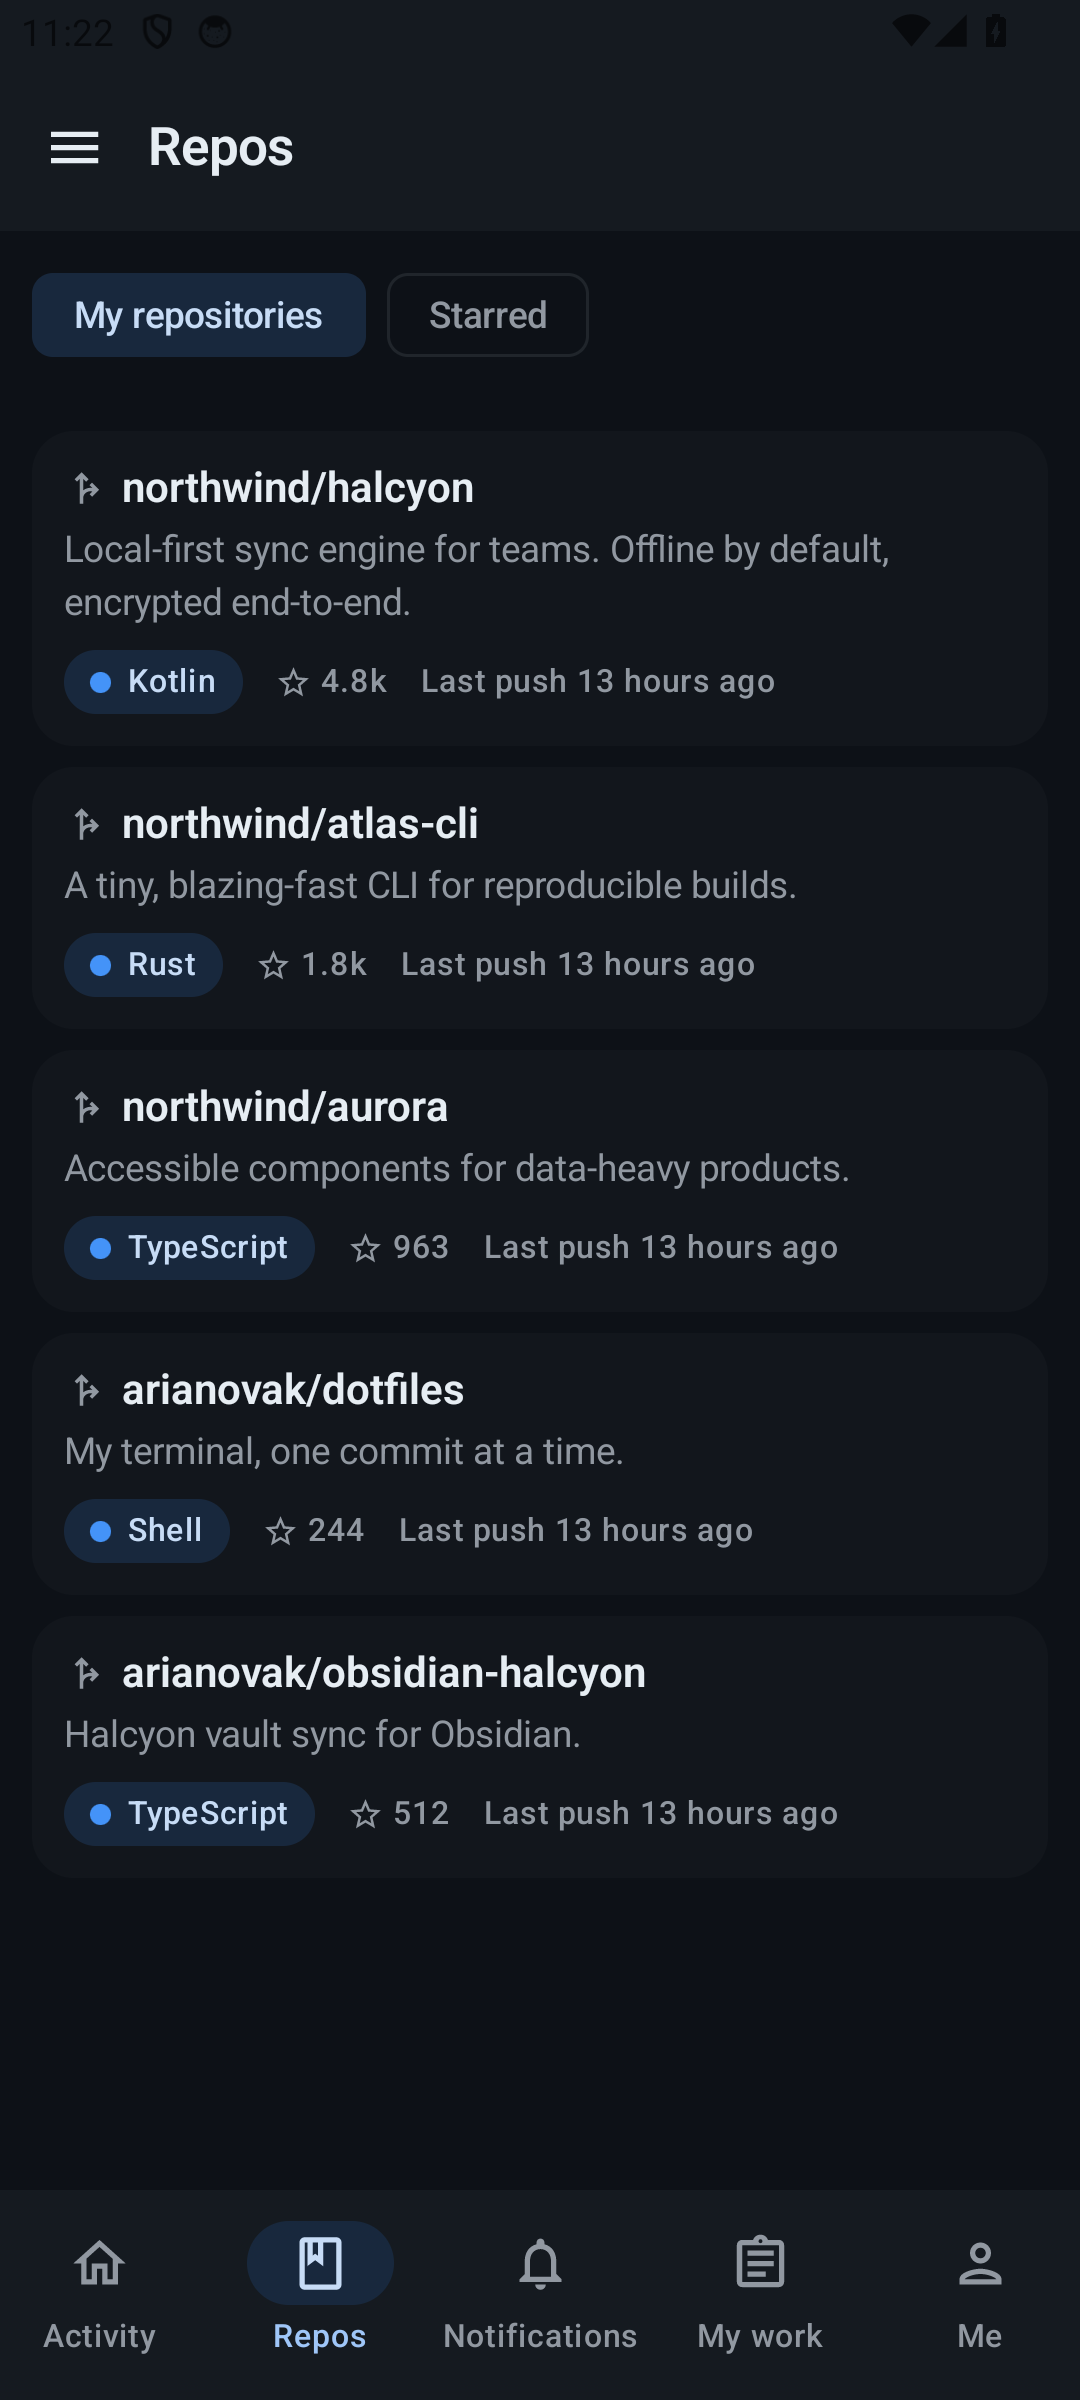
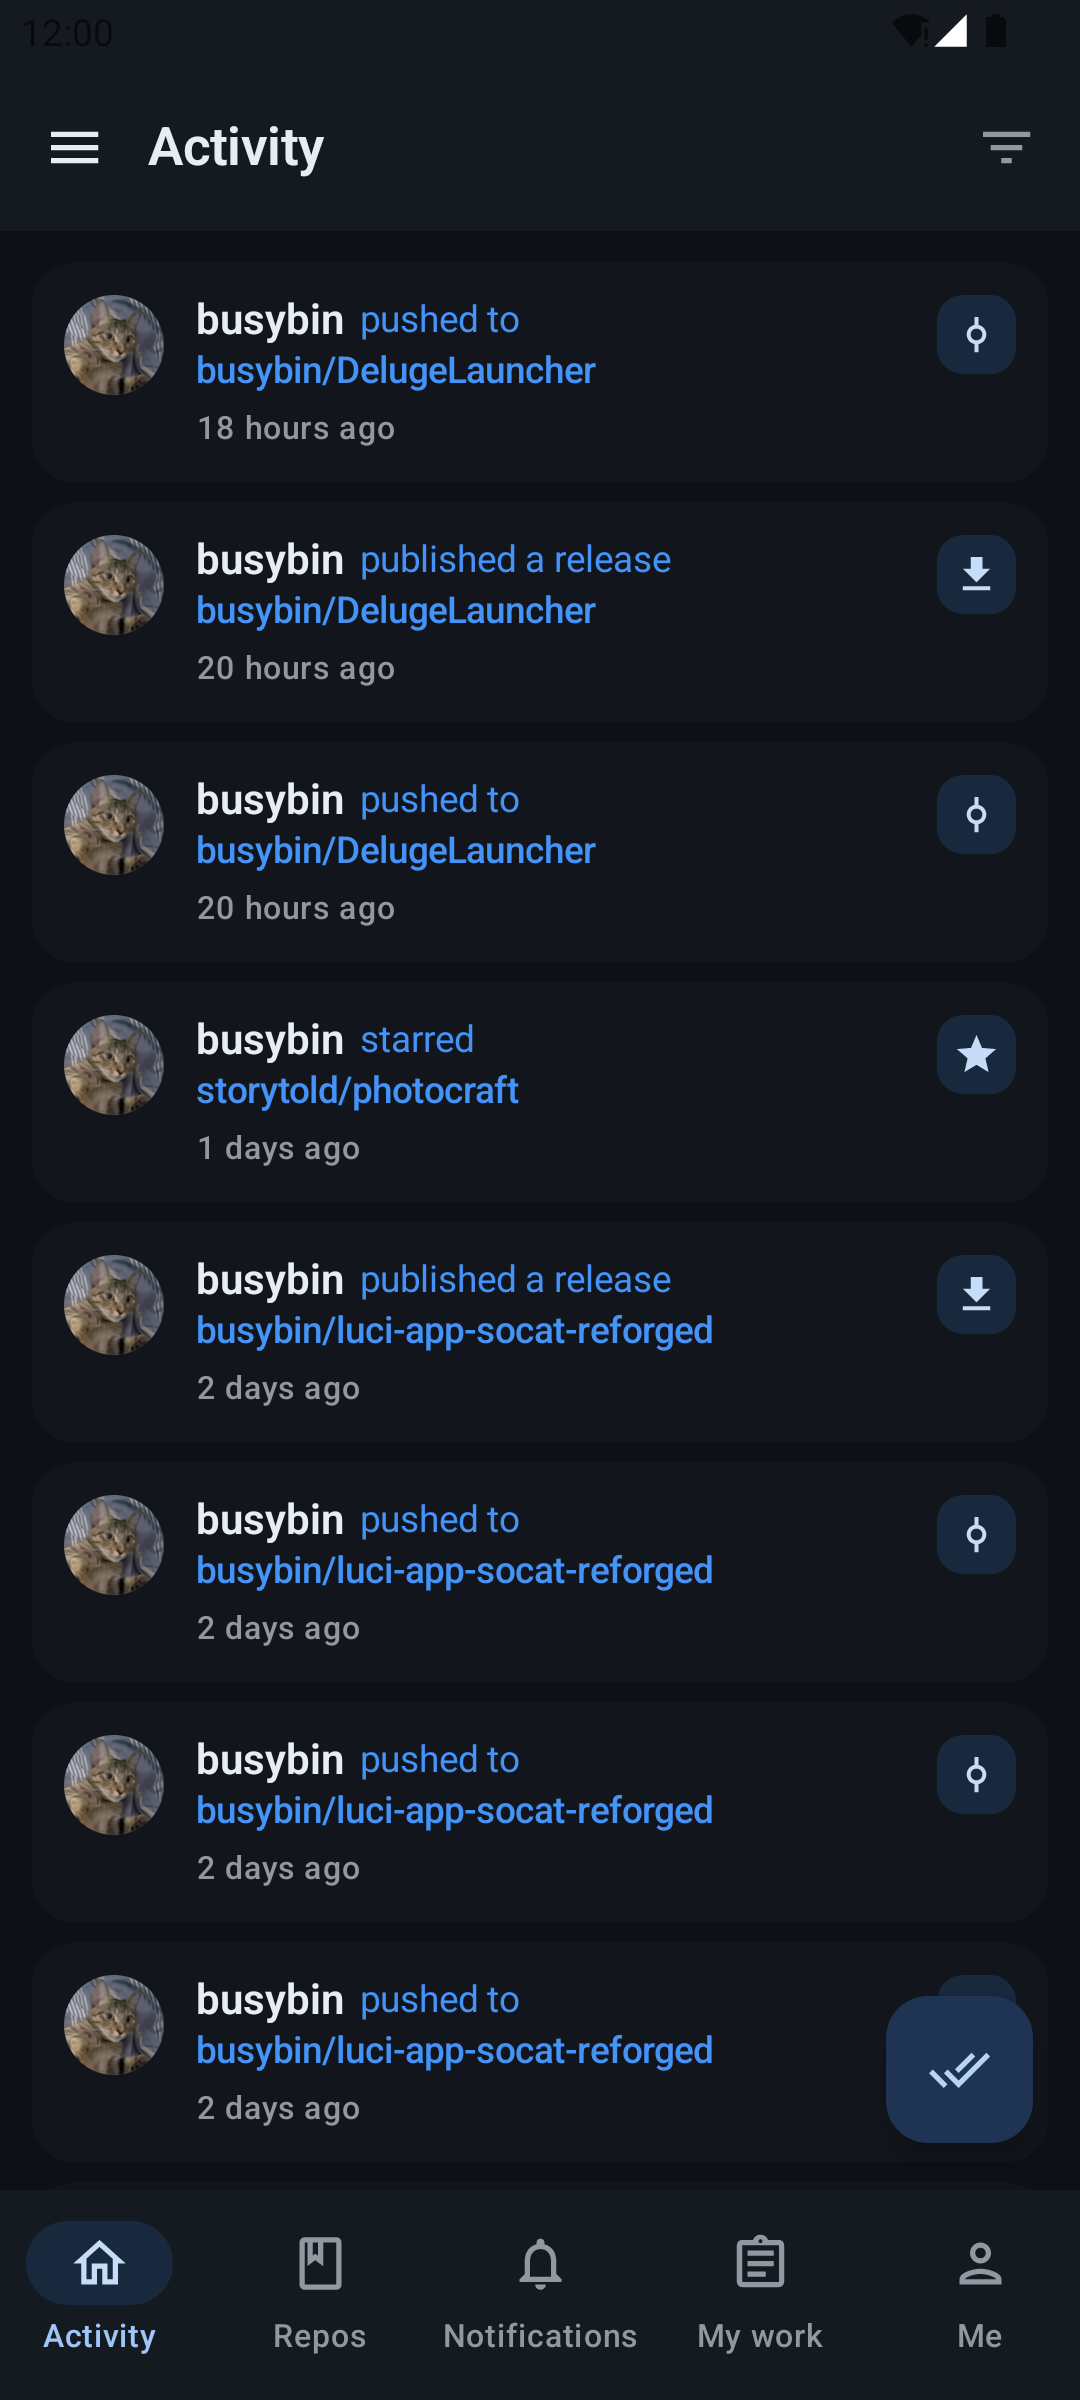
Add screenshots to the README and F-Droid metadata
Captured on the Android 14 emulator at 1080x2400: activity feed, repositories, repository overview, rendered README, code browser, trending, search, settings.

diff --git a/README.md b/README.md
@@ -5,6 +5,16 @@
 
 An open-source GitHub client for Android with a modern **Material 3 / Jetpack Compose** interface.
 
+## Screenshots
+
+| Activity | Repositories | Repository |
+| --- | --- | --- |
+| ![Activity feed](docs/screenshots/feed.png) | ![Repositories](docs/screenshots/repositories.png) | ![Repository overview](docs/screenshots/repository.png) |
+| ![Rendered README](docs/screenshots/readme.png) | ![Code browser](docs/screenshots/code.png) | ![Settings and themes](docs/screenshots/settings.png) |
+
+Taken on an Android 14 emulator at 1080×2400. More in
+[`fastlane/metadata/android/en-US/images/phoneScreenshots`](fastlane/metadata/android/en-US/images/phoneScreenshots).
+
 ## Features
 
 **Interface**
